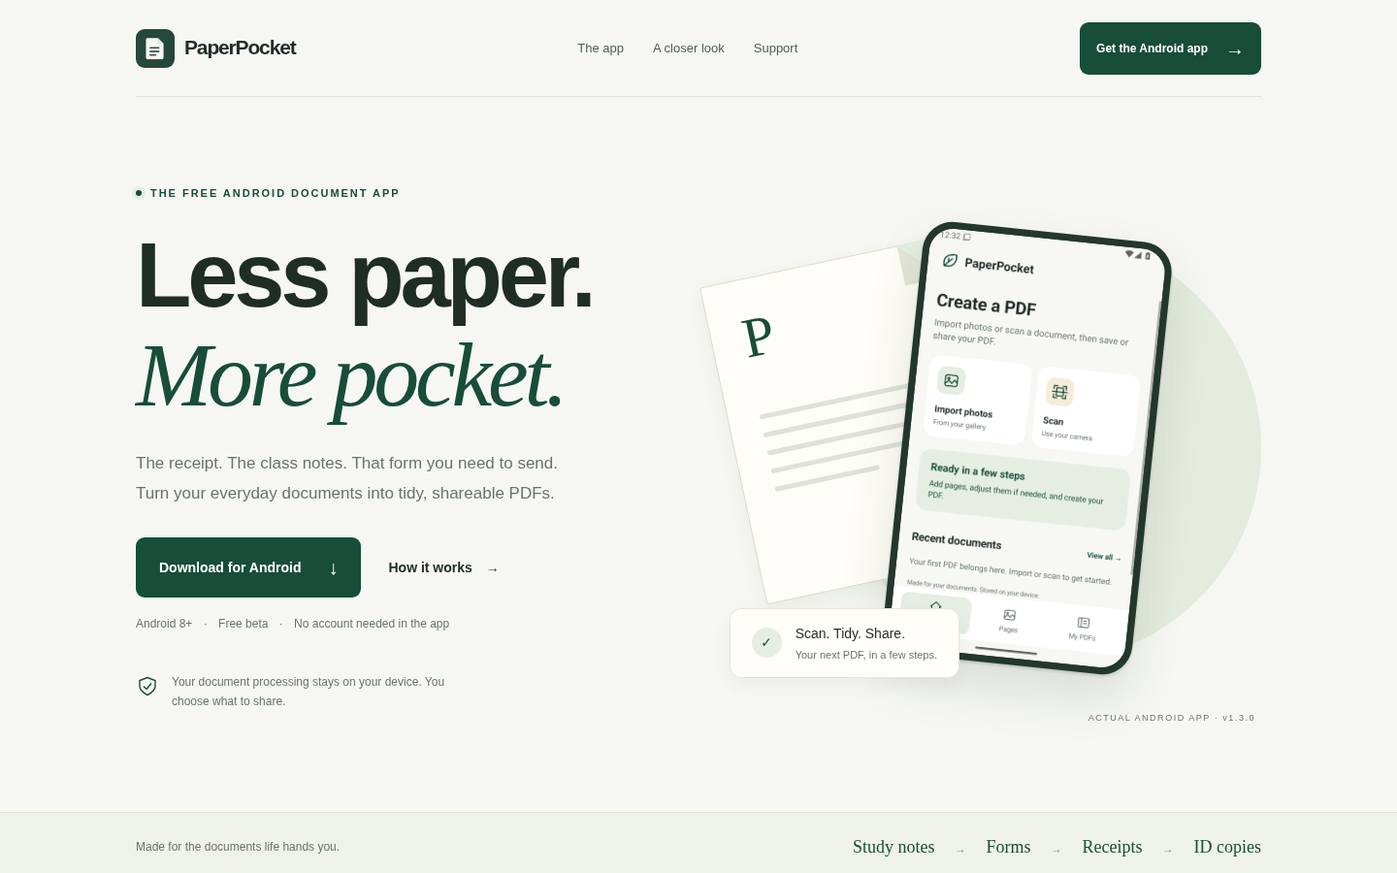
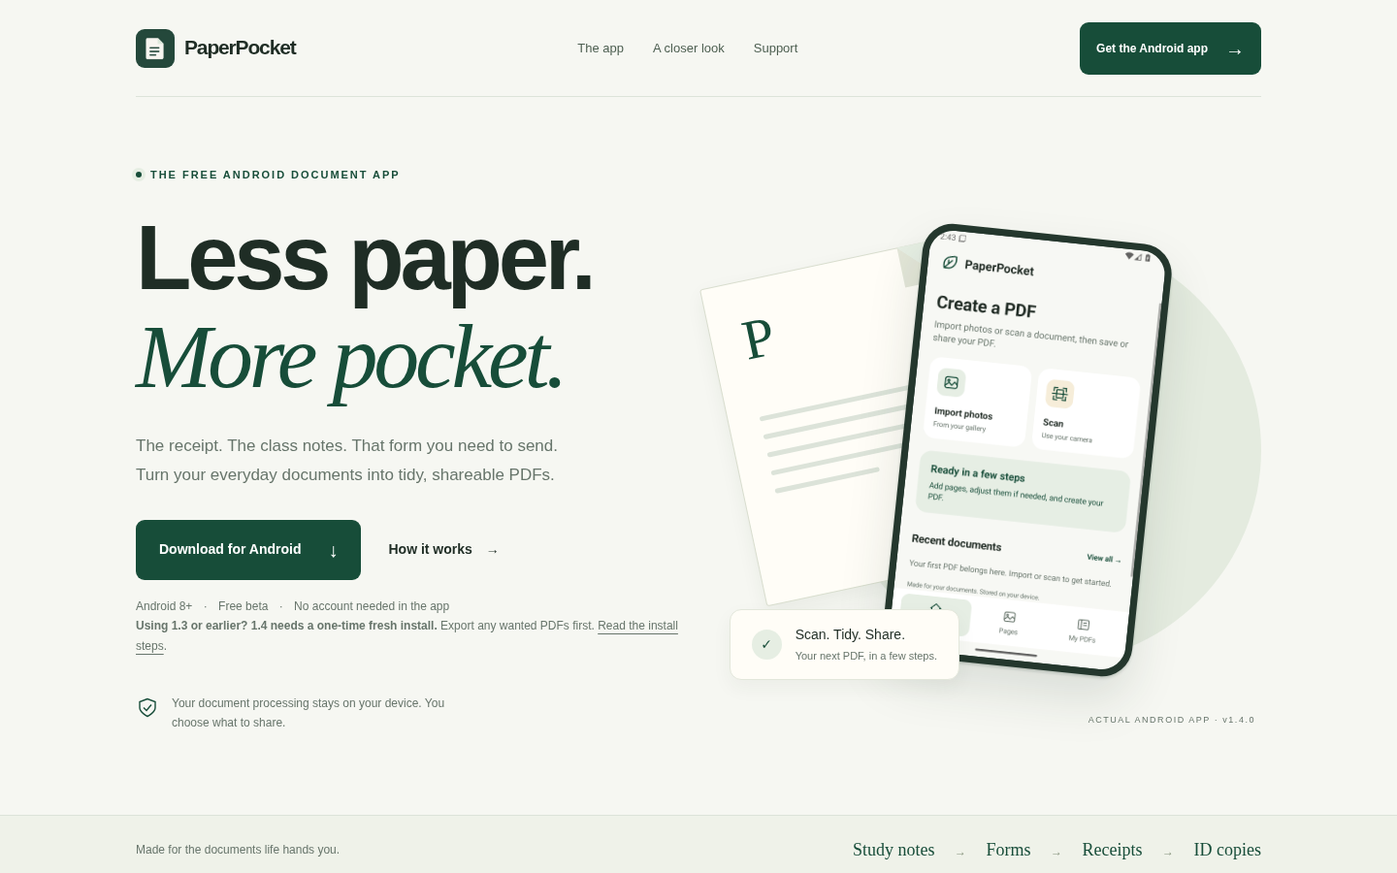
Publish website download and install guidance for signed 1.4 beta [skip ci]

diff --git a/website/dist/index.html b/website/dist/index.html
@@ -27,15 +27,16 @@
         <p class="eyebrow"><span class="status-dot" aria-hidden="true"></span> THE FREE ANDROID DOCUMENT APP</p>
         <h1 id="hero-title">Less paper.<br><em>More pocket.</em></h1>
         <p class="lede">The receipt. The class notes. That form you need to send. Turn your everyday documents into tidy, shareable PDFs.</p>
-        <div class="hero-actions"><a class="button dark apk-link" href="https://github.com/murtazaofficialskardu-cloud/PaperPocket/raw/refs/heads/main/downloads/PaperPocket-1.3.0.apk">Download for Android <span aria-hidden="true">↓</span></a><a class="text-link" href="#guide">How it works <span aria-hidden="true">→</span></a></div>
+        <div class="hero-actions"><a class="button dark apk-link" href="https://github.com/murtazaofficialskardu-cloud/PaperPocket/raw/refs/heads/main/downloads/PaperPocket-1.4.0.apk">Download for Android <span aria-hidden="true">↓</span></a><a class="text-link" href="#guide">How it works <span aria-hidden="true">→</span></a></div>
         <p class="fine">Android 8+ <span>·</span> Free beta <span>·</span> No account needed in the app</p>
+        <p class="fine"><strong>Using 1.3 or earlier? 1.4 needs a one-time fresh install.</strong> Export any wanted PDFs first. <a href="#download">Read the install steps</a>.</p>
         <div class="hero-note"><svg viewBox="0 0 24 24" aria-hidden="true"><path d="M12 3 4 6v6c0 5 8 9 8 9s8-4 8-9V6Z"/><path d="m8 12 3 3 5-6"/></svg><p>Your document processing stays on your device. You choose what to share.</p></div>
       </div>
       <div class="hero-art">
         <div class="paper paper-back" aria-hidden="true"><span class="paper-corner"></span><span class="paper-mark">P</span><i></i><i></i><i></i><i></i><i></i></div>
         <div class="phone"><img src="assets/01-home.png" width="1080" height="1920" alt="PaperPocket Android Home with Import photos and Scan options" fetchpriority="high"></div>
         <div class="flow-note"><span class="round-icon" aria-hidden="true">✓</span><span>Scan. Tidy. Share.<small>Your next PDF, in a few steps.</small></span></div>
-        <span class="art-label">ACTUAL ANDROID APP · v1.3.0</span>
+        <span class="art-label">ACTUAL ANDROID APP · v1.4.0</span>
       </div>
     </section>
 
@@ -45,7 +46,7 @@
       <div class="section-heading"><p class="eyebrow">A LITTLE LESS ADMIN</p><h2 id="features-title">From loose pages<br>to <em>all sorted.</em></h2><p>Everything you need for a daily document task, without making the task feel like work.</p></div>
       <div class="feature-list">
         <article><span class="feature-no">01</span><div><h3>Get the pages right.</h3><p>Import photos or use the document scanner. Crop, straighten, rotate and arrange the pages before you create your PDF.</p><span class="detail">Original color · Enhanced · Black & white</span></div></article>
-        <article><span class="feature-no">02</span><div><h3>Choose the right balance.</h3><p>Compact, Balanced or High quality. Reduce a saved PDF's size and keep the original. Better source photos give better results.</p><span class="detail">150 / 200 / 300 DPI export targets</span></div></article>
+        <article><span class="feature-no">02</span><div><h3>Preview the tradeoff.</h3><p>Choose WhatsApp/chat, Email/everyday or Fine print/forms. Compare actual before/after bytes, preview the pages, then Save smaller copy or Discard. Your original stays.</p><span class="detail">Compact / Balanced / High · Check small text before saving</span></div></article>
         <article><span class="feature-no">03</span><div><h3>Give each PDF a place.</h3><p>Search your library, create folders and mark Favorites. Trash and Restore help when you change your mind.</p><span class="detail">Delete a folder, keep its PDFs</span></div></article>
         <article><span class="feature-no">04</span><div><h3>Send it. Get on with your day.</h3><p>View, share or save a copy. Create PDFs while the app is minimized, with progress, cancellation and optional notifications.</p><span class="detail">Your sharing app. Your destination.</span></div></article>
       </div>
@@ -61,7 +62,7 @@
             <button id="tab-library" role="tab" aria-selected="false" aria-controls="screen-panel" tabindex="-1" data-screen="library"><span>03</span> My PDFs</button>
           </div>
           <div id="screen-panel" role="tabpanel" aria-labelledby="tab-pages" tabindex="0"><h3 id="screen-heading">Prepare your next PDF.</h3><p id="screen-caption">Add photos, arrange them and choose your export settings. ID-card mode puts front and back on one A4 page.</p></div>
-          <p class="fine screenshot-note">Real screenshots from the Android 1.3.0 beta, shown in their empty states. No documents are uploaded to this website.</p>
+          <p class="fine screenshot-note">Real screenshots from the Android 1.4.0 beta, shown in their empty states. No documents are uploaded to this website.</p>
         </div>
       </div>
     </section>
@@ -73,8 +74,8 @@
     </section>
 
     <section class="download-section" id="download" aria-labelledby="download-title"><div class="shell download-grid">
-      <div><p class="eyebrow">READY WHEN YOU ARE</p><h2 id="download-title">A little more space<br><em>for your day.</em></h2><p>Get the free Android beta. No ads, subscriptions or in-app purchases.</p><a class="button light apk-link" href="https://github.com/murtazaofficialskardu-cloud/PaperPocket/raw/refs/heads/main/downloads/PaperPocket-1.3.0.apk">Download PaperPocket <span aria-hidden="true">↓</span></a><p class="download-meta">v1.3.0 <span>·</span> 45.9 MB <span>·</span> Android 8 or newer</p></div>
-      <div class="install-card"><span class="install-label">INSTALL & UPDATE</span><ol><li>Download the APK on your Android phone and open the downloaded file.</li><li>Follow Android's prompts and review any security warnings. Keep Play Protect enabled.</li><li>Install updates over your existing signed beta. Export important PDFs before clearing app data or uninstalling.</li></ol><p>This beta is distributed through GitHub. It is not published on Google Play.</p><details><summary>Check the download</summary><p>SHA-256 for the signed 1.3.0 APK:</p><code id="apk-hash">See the linked release manifest below.</code><button class="inline-button" type="button" id="copy-hash">Copy checksum</button><span id="checksum-status" class="fine" role="status"></span><a href="https://github.com/murtazaofficialskardu-cloud/PaperPocket/blob/main/downloads/release-manifest-1.3.0.json" target="_blank" rel="noopener noreferrer">Release manifest →</a></details></div>
+      <div><p class="eyebrow">READY WHEN YOU ARE</p><h2 id="download-title">A little more space<br><em>for your day.</em></h2><p>Get the free Android beta. No ads, subscriptions or in-app purchases.</p><a class="button light apk-link" href="https://github.com/murtazaofficialskardu-cloud/PaperPocket/raw/refs/heads/main/downloads/PaperPocket-1.4.0.apk">Download PaperPocket <span aria-hidden="true">↓</span></a><p class="download-meta">v1.4.0 <span>·</span> <span data-apk-size>45.9 MB</span> <span>·</span> Android 8 or newer</p><p><strong>First install of 1.4 from an older beta: export wanted PDFs, then uninstall the old app and install 1.4.</strong></p></div>
+      <div class="install-card"><span class="install-label">1.4 INSTALL & FUTURE UPDATES</span><ol><li>If you have 1.3 or earlier, use Save a copy for wanted PDFs, then uninstall that beta. Android cannot install the new 1.4 signing key over it.</li><li>Download the 1.4 APK on your Android phone, open the file and follow Android's prompts. Review security warnings and keep Play Protect enabled.</li><li>Once on 1.4, future releases signed with its retained key can install as normal updates.</li></ol><p><strong>Uninstalling removes private PDFs, drafts, folders and Favorites.</strong> Exported copies stay where you saved them. Automatic migration and external PDF import are not included.</p><p>This free beta is distributed through GitHub. It is not published on Google Play.</p><details><summary>Check the download</summary><p>SHA-256 for the signed 1.4.0 APK:</p><code id="apk-hash">See the linked release manifest below.</code><button class="inline-button" type="button" id="copy-hash">Copy checksum</button><span id="checksum-status" class="fine" role="status"></span><a href="https://github.com/murtazaofficialskardu-cloud/PaperPocket/blob/main/downloads/release-manifest-1.4.0.json" target="_blank" rel="noopener noreferrer">Release manifest →</a></details></div>
     </div></section>
 
     <section class="section shell questions" id="questions" aria-labelledby="questions-title"><div><p class="eyebrow">THE USEFUL DETAILS</p><h2 id="questions-title">Before you<br><em>pocket it.</em></h2></div><div class="faq-list">
@@ -83,7 +84,7 @@
       <details><summary>Can I use it on an iPhone or laptop?</summary><p>You can read this website on either. The downloadable app currently runs on Android only. Browser PDF tools and a native iOS app are not available yet.</p></details>
       <details><summary>What are the scanning and PDF limits?</summary><p>The document scanner needs supported Google Play services; its first use may download components. A system-camera fallback is included. Merge and page extraction support PaperPocket's known image-PDF format, rather than arbitrary external PDFs. Text extraction supports printed Latin/English, up to 50 pages, and exports separate text; it does not add a searchable PDF layer.</p></details>
       <details><summary>Does conversion keep running if I leave the app?</summary><p>Normal and ID-card PDF creation can continue while minimized and across activity recreation. Notifications are optional. Force-stop, reboot or Android terminating the process can interrupt a job; it does not automatically restart. Reopen the app to check the result and retry from the retained draft.</p></details>
-      <details><summary>Will compression always reach a particular file size?</summary><p>No. The result depends on the page count, image detail and source quality. Compact favors smaller files; High favors available detail. Reducing an existing PDF keeps its original and saves a smaller image-based copy when possible.</p></details>
+      <details><summary>Will a sharing preset guarantee a particular file size?</summary><p>No. The result depends on page count, image detail and source quality; chat and email attachment limits vary. The 1.4 presets map to Compact, Balanced and High. Compare & preview shows actual sizes and lets you check every page. Save smaller copy is available only for a strictly smaller result; Discard leaves the original unchanged.</p></details>
     </div></section>
 
     <section class="support-section section" id="support" aria-labelledby="support-title"><div class="shell support-grid"><div><p class="eyebrow">HELP SHAPE THE NEXT VERSION</p><h2 id="support-title">A small note.<br><em>A better app.</em></h2><p>A confusing button, a PDF that won't open, a feature you miss—tell us about it.</p><a class="text-link" href="mailto:murtazaofficialskardu@gmail.com">murtazaofficialskardu@gmail.com →</a><a class="text-link" href="https://github.com/murtazaofficialskardu-cloud/PaperPocket/issues/new" target="_blank" rel="noopener noreferrer">Report on GitHub →</a><p class="fine">Leave out private documents, passwords and other sensitive information.</p></div>

diff --git a/website/dist/privacy/index.html b/website/dist/privacy/index.html
@@ -11,7 +11,7 @@
 <body>
 <main>
 <h1>PaperPocket Privacy Policy</h1>
-<p class="updated">Policy revision: PaperPocket 1.3.0</p>
+<p class="updated">Policy revision: PaperPocket 1.4.0</p>
 <h2>Scope and contact</h2>
 <p>PaperPocket is an Android app for importing images, scanning documents, creating image-based PDFs and two-sided ID-card sheets, and managing PDFs generated by the app, including folders, Favorites, compression, page extraction, merging, trash, and optional text extraction. This policy covers package io.github.murtazaofficialskardu_cloud.paperpocket.</p>
 <p>The PaperPocket developer can be contacted for privacy or support questions at <a href="mailto:murtazaofficialskardu@gmail.com">murtazaofficialskardu@gmail.com</a>.</p>
@@ -19,6 +19,7 @@
 <p>PaperPocket accesses images you select with Android&#x27;s document picker and scan or camera results you choose to return to the app. It copies imported pages into private app storage so that drafts can be restored. Cropping, enhancement, rotation, PDF creation, PDF viewing, compression, page extraction, and merging run locally.</p>
 <p>Your draft pages, generated PDFs, document and folder names, Favorites, page counts, creation dates, file sizes, and editing/export preferences are stored on your device. PaperPocket does not automatically upload these documents or their contents to a publisher-operated server. The app has no accounts, advertising SDK, or publisher-operated analytics service.</p>
 <p>When you start PDF creation, PaperPocket keeps private snapshots of the selected draft images plus conversion options, progress, and the latest job result so creation can continue when its screen closes. Normal and ID-card PDF creation run on your device in a foreground service. Working image snapshots are removed when the job finishes, is cancelled, or is recognized as interrupted after a process restart. The latest result remains until replaced by another conversion or app storage is cleared. This does not automatically restart conversion after Android force-stop or reboot.</p>
+<p>When you reduce a saved PDF, the unsaved compressed preview is kept in private cache so you can check its pages and actual size before choosing Save smaller copy. Discarding the preview or saving the smaller copy removes the temporary file. Abandoned previews older than 24 hours are cleaned when the app next starts or prepares another preview; Android may evict cache earlier. A preview is not added to the PDF library or shared automatically. Saving creates a separate smaller PDF and keeps the original.</p>
 <h2>Google document scanner and optional text recognition</h2>
 <p>The optional scanner is supplied by Google ML Kit through Google Play services. Its components may need an internet download before first use. Document scanning runs on your device; ML Kit states that it does not send input images or scan results to Google servers. It may contact Google for updates and sends performance/use metrics under Google&#x27;s Privacy Policy.</p>
 <p>When you choose Extract text, PaperPocket renders the chosen PDF pages locally and uses the bundled Google ML Kit Latin text-recognition model. The recognition model works on your device without an initial model download. PDF content, rendered images, and recognized text are not automatically uploaded to the publisher or to Google for recognition. The model is intended for printed Latin-script text, including English; Urdu and other scripts are not promised.</p>

diff --git a/website/dist/app.js b/website/dist/app.js
@@ -26,8 +26,8 @@ tabs.forEach((tab,index)=>{
   });
 });
 let apkChecksum='';
-fetch('assets/release-manifest-1.3.0.json').then(response=>{if(!response.ok)throw Error('Manifest unavailable');return response.json();}).then(manifest=>{
-  const artifact=manifest.artifacts&&manifest.artifacts['PaperPocket-1.3.0.apk'];
+fetch('assets/release-manifest-1.4.0.json').then(response=>{if(!response.ok)throw Error('Manifest unavailable');return response.json();}).then(manifest=>{
+  const artifact=manifest.artifacts&&manifest.artifacts['PaperPocket-1.4.0.apk'];
   if(!artifact||!/^https:\/\/github\.com\/murtazaofficialskardu-cloud\/PaperPocket\/raw\//.test(artifact.url)||!/^[a-f0-9]{64}$/.test(artifact.sha256))throw Error('Invalid release data');
   apkChecksum=artifact.sha256;document.getElementById('apk-hash').textContent=apkChecksum;
 }).catch(()=>{document.getElementById('copy-hash').disabled=true;document.getElementById('checksum-status').textContent='Use the release manifest link to check the checksum.';});
@@ -43,7 +43,7 @@ document.getElementById('copy-hash').addEventListener('click',async()=>{
 const feedback=document.getElementById('feedback-form');
 function report(){
   const values=new FormData(feedback);
-  return {topic:String(values.get('topic')||'Feedback'),body:'PaperPocket Android feedback\nApp version: 1.3.0\nPhone: '+String(values.get('phone')||'Not provided').trim()+'\nAndroid: '+String(values.get('android')||'').trim()+'\n\n'+String(values.get('note')||'').trim()};
+  return {topic:String(values.get('topic')||'Feedback'),body:'PaperPocket Android feedback\nApp version: 1.4.0\nPhone: '+String(values.get('phone')||'Not provided').trim()+'\nAndroid: '+String(values.get('android')||'').trim()+'\n\n'+String(values.get('note')||'').trim()};
 }
 feedback.addEventListener('submit',event=>{
   event.preventDefault();

diff --git a/RELEASE_CHECKLIST.md b/RELEASE_CHECKLIST.md
@@ -17,9 +17,9 @@ update support. No device reset or uninstall is performed by this repository.
 
 - [x] Owner accepted the fresh-install beta plan.
 - [x] Source checks pass for the existing app checkpoint; see VALIDATION.md.
-- [ ] Build/sign final distribution artifacts with the new 1.4 key and verify package, version, certificate, signatures and alignment.
+- [x] Build/sign final distribution artifacts with the new 1.4 key and verify package, version, certificate, signatures and alignment.
 - [x] Restore the durable owner-private Google Drive signing backup: owner-only permissions, downloaded ZIP checksum/certificate match, and restored-key JAR signing/verification passed. Keep secrets and private backup links out of public Git/archives.
-- [ ] Publish versioned APK/AAB/source/kit, checksums and the exact CI record. Verify anonymous download bytes and update the public website only after the APK exists.
+- [x] Publish versioned APK/AAB/source/kit, checksums and the exact CI record. Verify anonymous download bytes and update the public website only after the APK exists.
 - [ ] Make the 1.3-to-1.4 fresh-install instruction visible on the website and download page.
 
 The later Play/physical-phone checklist below is separate from this small free
@@ -41,11 +41,11 @@ New mobile apps and updates submitted after 31 August 2026 must target Android 1
 
 - [ ] Confirm the intended package ID before the first Play upload. Keep it stable for future updates.
 - [x] Build and record the output of `./gradlew --no-daemon :app:assembleDebug :app:testDebugUnitTest :app:lintDebug :app:bundleRelease :app:lintRelease`.
-- [ ] Record final signed artifact filenames, size, SHA-256, signer and source provenance in release-manifest-1.4.0.json.
+- [x] Record final signed artifact filenames, size, SHA-256, signer and source provenance in release-manifest-1.4.0.json.
 - [x] Inspect APK/AAB metadata and the merged manifest. Verify the viewer/crop activities and FileProvider are not exported, backup exclusions remain effective, and only intended permissions appear.
 - [x] Inspect the resolved runtime dependency tree and final merged permissions. Source declarations alone do not account for transitive SDK manifests. Investigate camera, broad media/storage, advertising-ID, or unrelated permissions if present.
 - [x] Version 1.2 bundled OCR was tested on x86_64 API 36 with 16 KB pages and compatibility disabled; 64-bit LOAD/ZIP alignment passes. VALIDATION.md records the RELRO static-check caveat and remaining ARM64/Play checks. See [Android's page-size guidance](https://developer.android.com/guide/practices/page-sizes).
-- [ ] Keep the 1.4 distribution keystore and passwords outside Git/logs, verify the final APK/AAB signer, and verify durable private backup recovery. A valid signature is separate from an observed install on a phone.
+- [x] Keep the 1.4 distribution keystore and passwords outside Git/logs, verify the final APK/AAB signer, and verify durable private backup recovery. A valid signature is separate from an observed install on a phone.
 - [ ] Before enrolling in Play App Signing, decide how existing GitHub APKs will update. An automatically generated Play app-signing key differs from the current GitHub certificate unless the existing key is selected as the distribution key through the supported enrollment flow. Test that migration using the retained 1.4 distribution key and use a separate upload key where appropriate. Retain recovery information. An AAB is a publishing format; it cannot be installed directly like an APK. Google generates distribution APKs after upload. See [Android app signing](https://developer.android.com/studio/publish/app-signing).
 - [ ] Validate and test APKs generated from the release AAB with bundletool or an internal Play test, rather than relying only on a debug APK.
 - [ ] For a later same-1.4-key build, test an in-place version increase and retain drafts/PDFs. This does not apply to the intentional fresh install from the pre-1.4 key.
@@ -104,6 +104,6 @@ Core Google Play services libraries and the ML Kit scanner have separate disclos
 
 ## GitHub versioning and recovery
 
-- [ ] Keep previous public artifacts and stable tags; `v1.3.0` preserves the previous signing epoch and its artifacts. Push each completed change so its history is reviewable.
+- [x] Keep previous public artifacts and stable tags; `v1.3.0` preserves the previous signing epoch and its artifacts. Push each completed change so its history is reviewable.
 - [ ] If beta feedback finds a regression, starting from 1.4, release a corrected build with the retained 1.4 package/signing key and a version code above the installed version. An older APK is normally rejected as an in-place downgrade.
 - [ ] Export important documents before any uninstall/reset experiment. Never describe uninstalling to install an older APK as a data-preserving rollback.

diff --git a/website/README.md b/website/README.md
@@ -1,7 +1,7 @@
 # PaperPocket download and support website
 
 Buildless HTML, CSS and JavaScript for the free Android beta. The current
-download is the signed **1.3.0**, version code **4**, APK for Android 8 or newer.
+download is the signed **1.4.0**, version code **5**, APK for Android 8 or newer.
 The website does not offer browser PDF conversion, an iOS app, or a Play Store
 listing. Android changes under development do not change the advertised stable
 download until a signed release is available.
@@ -12,7 +12,7 @@ download until a signed release is available.
 - Current audience: **public**, as requested by the owner on 31 October 2026.
   Anonymous homepage and app privacy requests returned HTTP 200 without a sign-in redirect.
 - Site project: `appgprj_6ae4a7307cb48191b2869e0dd24ac313`.
-- Mirrored Sites source commit: `d2f60d36510c02a8f1a74cfa95cb12aea0ff804b`.
+- Mirrored Sites source commit: `d5d1d5882fcf7d8df88e122f2f79d4f3df4f6f7f`.
 - Native Sites deployment returned success. Local browser checks are recorded in
   [QA.md](QA.md); public access was separately verified after changing the audience.
 
@@ -27,7 +27,7 @@ Credentials, local runtime files and Git metadata are not included.
 - `dist/index.html`: landing page, Android download, installation guide,
   screenshot tabs, release details, FAQ and feedback form.
 - `dist/styles.css` and `dist/app.js`: responsive styles and browser interactions.
-- `dist/assets/`: real Android 1.3 screenshots, app icon and release manifest.
+- `dist/assets/`: real Android 1.4 screenshots, app icon and release manifest.
 - `dist/privacy/index.html`: the Android app privacy policy, preserved from the
   release source.
 - `dist/privacy/website.html`: separate website privacy information.
@@ -52,8 +52,14 @@ build step is required. Remote execution may require supported port forwarding.
 
 ## Downloads and future releases
 
-The current APK is 45,866,079 bytes, approximately 45.9 MB or 43.7 MiB. Its public
-GitHub URL and SHA-256 are in `dist/assets/release-manifest-1.3.0.json`.
+Version 1.4 starts signing epoch 2. Coming from 1.3 or earlier requires exporting
+wanted PDFs, uninstalling the older beta, and installing 1.4. That uninstall
+removes private app data; automatic migration and external PDF import are not
+implemented. Future retained-epoch-2 releases can update 1.4 normally. The site
+places this notice by both download buttons and in the installation guide.
+
+The current APK is 45,866,471 bytes, approximately 45.9 MB or 43.7 MiB. Its public
+GitHub URL and SHA-256 are in `dist/assets/release-manifest-1.4.0.json`.
 The signed APK is installable; the AAB publishing format is not a direct install.
 
 Update advertised releases only after a new APK is signed with the original

diff --git a/website/QA.md b/website/QA.md
@@ -27,14 +27,14 @@ changes computed browser text sizes; it is not a physical-phone OS font test.
 Local HTTP checks returned 200 for the app icon, stylesheet, script, Home/Pages
 screenshots, Android app privacy page and separate website privacy page. The
 public APK link also returned anonymous HTTP 200 with Content-Length
-45,866,079, matching the stable 1.3 release manifest.
+45,866,471, matching the signed 1.4 release manifest.
 
 A link-arrow glyph issue found in visual inspection was normalized to a standard
 right arrow before the published source commit. Hero images are local QA
 evidence; the tracked `dist` files are the deployed source mirror.
 
 Native Sites reported a successful deployment for source commit
-`d2f60d36510c02a8f1a74cfa95cb12aea0ff804b` at
+`d5d1d5882fcf7d8df88e122f2f79d4f3df4f6f7f` at
 https://paperpocket.sm-ali.chatgpt.site. The owner requested public access on
 31 October 2026. Sites confirmed public access policy revision 2. Separate
 anonymous homepage and app privacy GET requests returned HTTP 200 with actual
@@ -51,3 +51,12 @@ initial transient HTTP 403 cleared during verification; its cause was not establ
 The form also has a native `mailto:` action for script-disabled fallback; it has
 no HTTP feedback endpoint. This HTML-only follow-up does not alter the verified
 JavaScript draft/copy flow or page layout.
+
+## 1.4 release refresh
+
+The refreshed 1.4 page passed the desktop/mobile/narrow/enlarged-text checks,
+actual APK URL and checksum assertions, visible fresh-install notice/guide,
+screenshot keyboard controls, feedback version/draft encoding, clipboard and
+manual fallback checks. It recorded zero JavaScript errors or unintended
+network submissions. Native 1.4 screenshots and exact app privacy were used.
+The refreshed public Site deployment succeeded for the source commit above.
